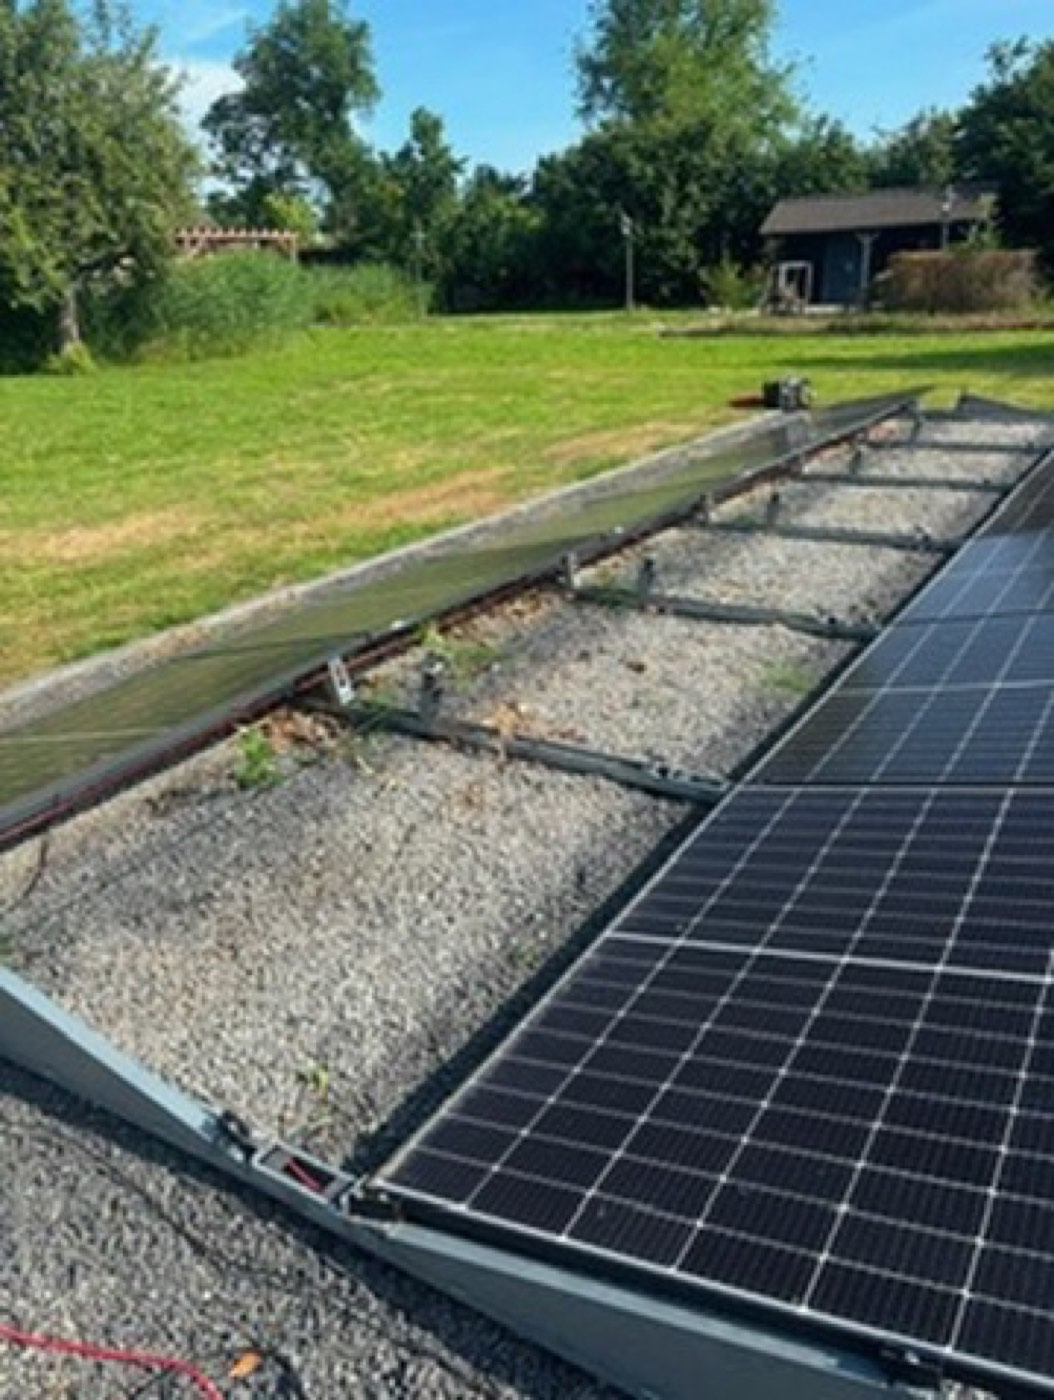
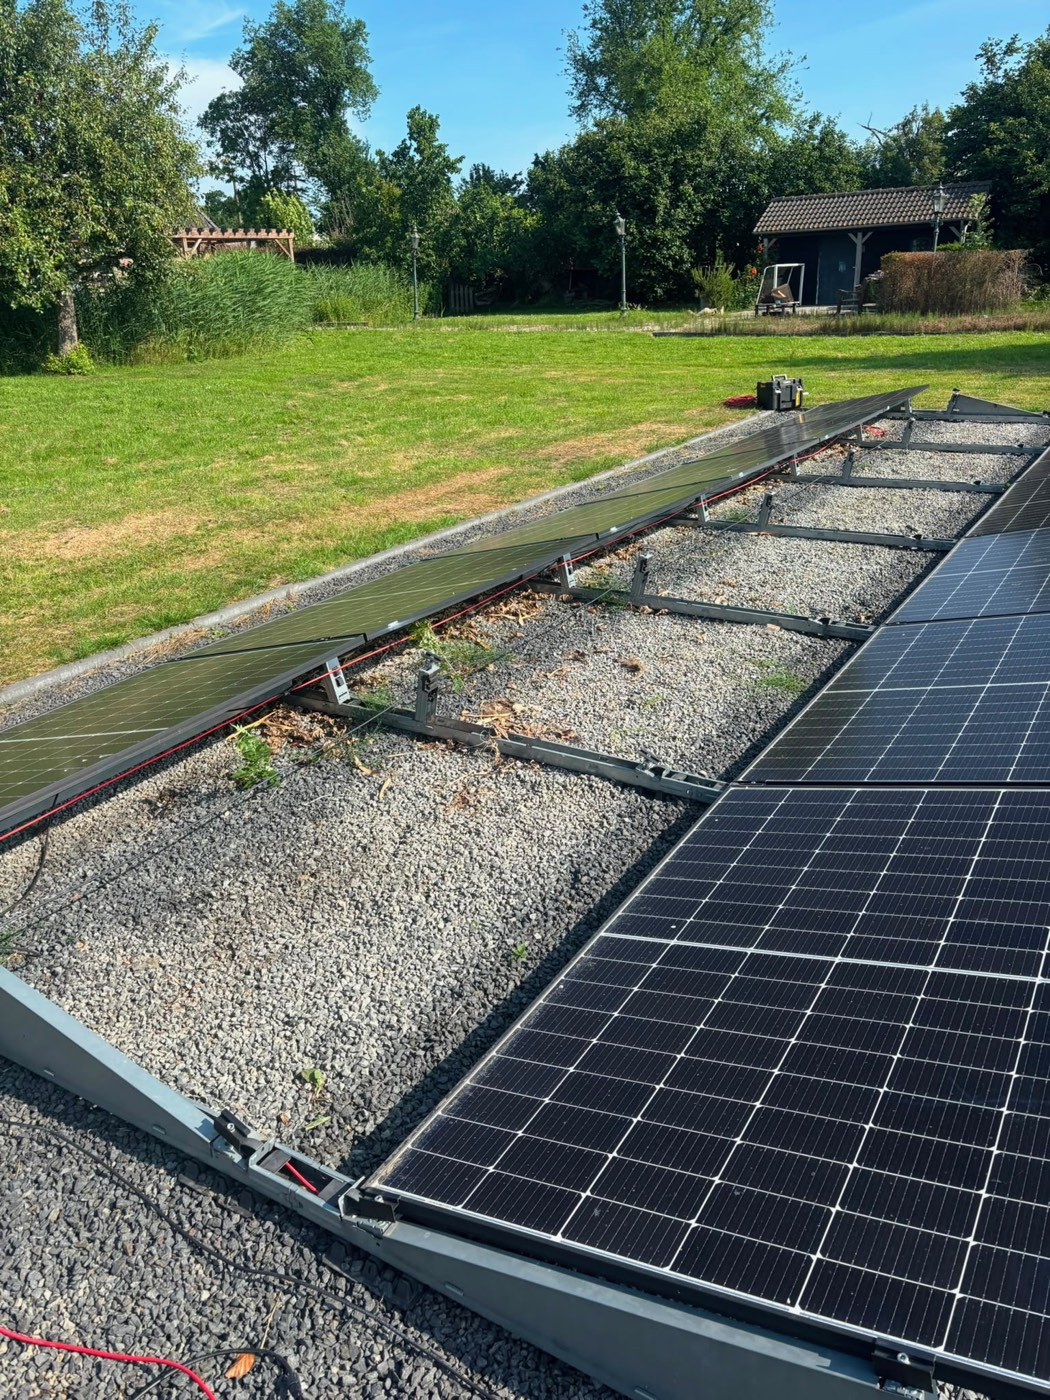
Project 1: betere veldfoto's en Jullix-dashboardgrafiek toegevoegd
4 veldfoto's vervangen door hogere-kwaliteit versies van de klant.
Jullix-dashboard (energiestroom/besparing/zelfverbruik) en de
vermogensgrafiek van dezelfde dag toegevoegd als tweede figuur bij
"Het resultaat", met een bijschrift dat de zichtbare pieken en het
laadgedrag van de batterij benoemt. De twee eerder aangeleverde foto's
met een identificeerbaar buurhuis en een volledige tuin zijn wederom
niet gebruikt en van schijf verwijderd.

diff --git a/nuzon-frontpage/project-1.html b/nuzon-frontpage/project-1.html
@@ -311,6 +311,11 @@
         <figcaption>Het Jullix-dashboard van deze installatie: 96% zelfverbruik en &euro;1.224,70 bespaard sinds de oplevering, met de batterij die midden op de dag oplaadt uit de panelen en &rsquo;s avonds weer aan het huis levert.</figcaption>
       </figure>
 
+      <figure class="verhaal__beeld">
+        <img src="assets/foto/nederhorstdenberg/jullix-dashboard-vermogen-nederhorst.jpeg" alt="Vermogensgrafiek van de installatie in Nederhorst den Berg: zonnepanelen, huis, net en thuisbatterij over één dag" loading="lazy">
+        <figcaption>Dezelfde dag in de vermogensgrafiek: de panelen (geel) pieken tweemaal boven de 15 kW, de batterij (groen) laadt daarop diep bij tot ruim -13 kW, en het net (rood) blijft vrijwel de hele dag vlak op nul.</figcaption>
+      </figure>
+
       <p class="verhaal__uitgelicht">Van een omvormer die aan vervanging toe was tot een complete technische ruimte met eigen noodstroom &mdash; een knap staaltje denkwerk, en precies het soort klus waar JTS Installatietechniek voor gebeld wordt in Nederhorst den Berg en de regio Utrecht.</p>
 
       <h2>Veelgestelde vragen over meterkasten, batterijen en noodstroom</h2>
